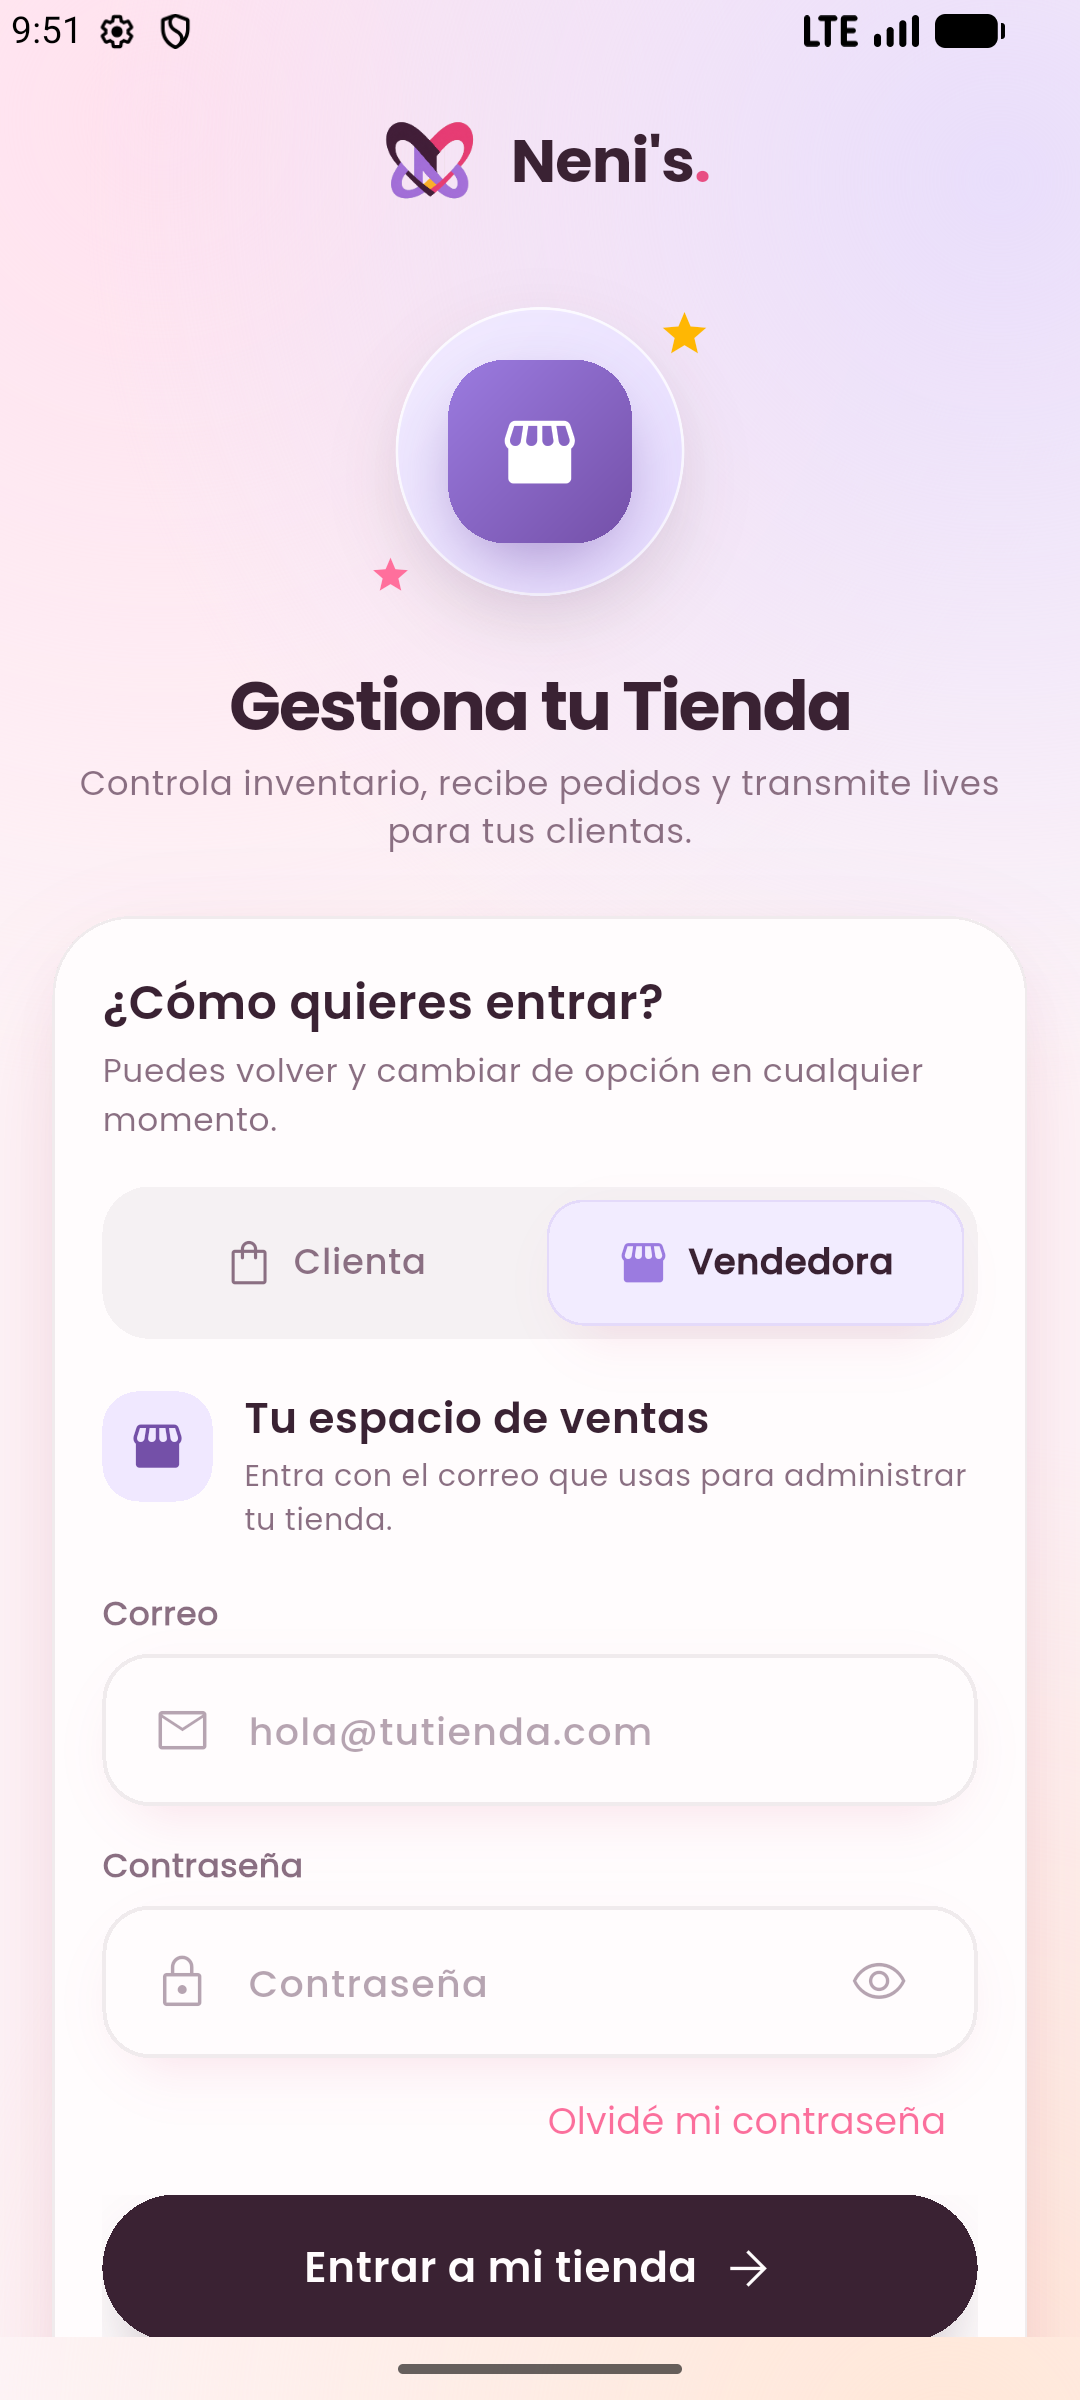
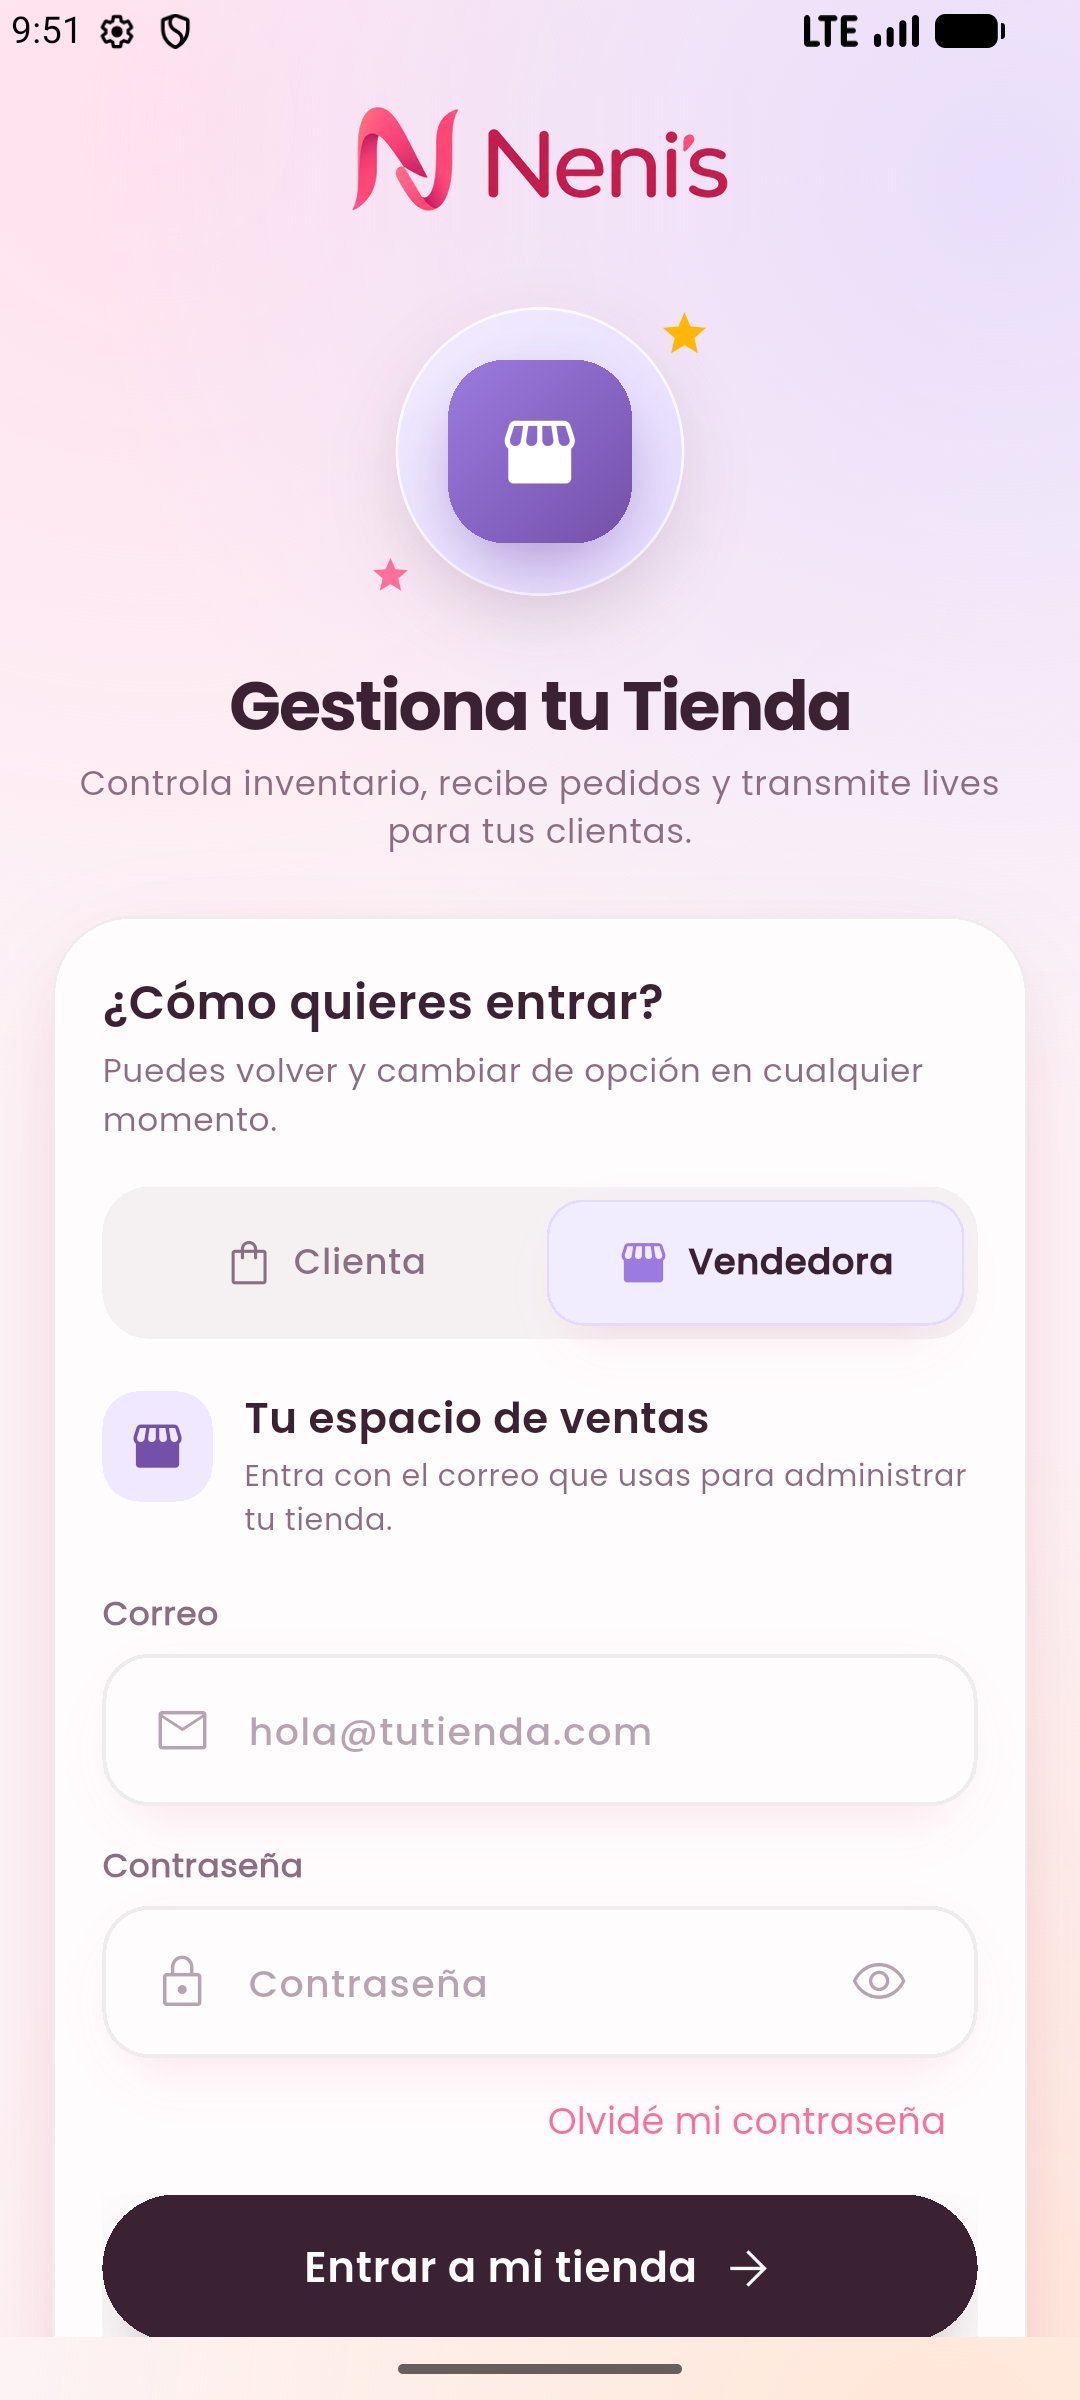
Actualizo la identidad visual y capturas de la landing

Changed region(s): [[0.3056, 0.0312, 0.6722, 0.0938]]

diff --git a/index.html b/index.html
@@ -22,7 +22,7 @@
     <meta name="twitter:image" content="https://nenisapp.com/og.png" />
     <link rel="canonical" href="https://nenisapp.com/" />
     <title>Neni's App | Tu live termina, tu negocio sigue en orden</title>
-    <link rel="icon" type="image/png" href="/images/logo.png" />
+    <link rel="icon" type="image/png" href="/favicon.png" />
     <link rel="preconnect" href="https://fonts.googleapis.com" />
     <link rel="preconnect" href="https://fonts.gstatic.com" crossorigin />
     <link
@@ -34,8 +34,7 @@
   <body class="landing-page">
     <header class="site-header" data-header>
       <a class="site-brand" href="#inicio" aria-label="Neni's App, ir al inicio">
-        <img src="/images/logo.png" alt="" />
-        <span>Neni's<span>.</span></span>
+        <img src="/images/nenis-logo.png" alt="Neni's" />
       </a>
 
       <button
@@ -464,8 +463,7 @@
     <footer class="site-footer">
       <div class="footer-main">
         <a class="site-brand footer-brand" href="#inicio">
-          <img src="/images/logo.png" alt="" />
-          <span>Neni's<span>.</span></span>
+          <img src="/images/nenis-logo.png" alt="Neni's" />
         </a>
         <p>El espacio donde vendedoras y clientas siguen conectadas.</p>
       </div>

diff --git a/src/styles/index.css b/src/styles/index.css
@@ -135,21 +135,12 @@ button {
 .site-brand {
   display: inline-flex;
   align-items: center;
-  gap: 10px;
-  color: var(--ink);
-  font-size: 1.25rem;
-  font-weight: 800;
-  letter-spacing: -0.04em;
 }
 
 .site-brand img {
-  width: 42px;
-  height: 42px;
+  width: 148px;
+  height: auto;
   object-fit: contain;
-}
-
-.site-brand > span > span {
-  color: var(--pink);
 }
 
 .main-nav {
@@ -1437,20 +1428,12 @@ button {
 .navbar__logo {
   display: inline-flex;
   align-items: center;
-  gap: 10px;
-  font-size: 1.05rem;
-  font-weight: 800;
-  letter-spacing: -0.04em;
 }
 
 .navbar__logo img {
-  width: 42px;
-  height: 42px;
+  width: 148px;
+  height: auto;
   object-fit: contain;
-}
-
-.logo-accent {
-  color: var(--pink);
 }
 
 .navbar__menu {
@@ -2030,14 +2013,10 @@ button {
     padding-block: 7px;
   }
 
-  .site-brand {
-    font-size: 1.05rem;
-  }
-
   .site-brand img,
   .navbar__logo img {
-    width: 36px;
-    height: 36px;
+    width: 132px;
+    height: auto;
   }
 
   .menu-toggle {

diff --git a/terms.html b/terms.html
@@ -5,15 +5,14 @@
   <meta name="viewport" content="width=device-width, initial-scale=1.0" />
   <title>Condiciones del Servicio — Neni's App</title>
   <meta name="description" content="Condiciones del Servicio de Neni's App. Conoce los términos bajo los cuales puedes usar nuestra aplicación y servicios." />
-  <link rel="icon" type="image/png" href="/images/logo.png" />
+  <link rel="icon" type="image/png" href="/favicon.png" />
   <link rel="stylesheet" href="/src/styles/index.css" />
 </head>
 <body>
   <nav class="navbar scrolled" id="navbar">
     <div class="container">
       <a href="/" class="navbar__logo">
-        <img src="/images/logo.png" alt="Neni's App Logo" />
-        <span>Neni<span class="logo-accent">'s</span> App</span>
+        <img src="/images/nenis-logo.png" alt="Neni's" />
       </a>
 
       <ul class="navbar__menu" id="navMenu">

diff --git a/deletion.html b/deletion.html
@@ -5,15 +5,14 @@
   <meta name="viewport" content="width=device-width, initial-scale=1.0" />
   <title>Eliminación de Datos — Neni's App</title>
   <meta name="description" content="Instrucciones para solicitar la eliminación de tus datos personales e información de cuenta en Neni's App." />
-  <link rel="icon" type="image/png" href="/images/logo.png" />
+  <link rel="icon" type="image/png" href="/favicon.png" />
   <link rel="stylesheet" href="/src/styles/index.css" />
 </head>
 <body>
   <nav class="navbar scrolled" id="navbar">
     <div class="container">
       <a href="/" class="navbar__logo">
-        <img src="/images/logo.png" alt="Neni's App Logo" />
-        <span>Neni<span class="logo-accent">'s</span> App</span>
+        <img src="/images/nenis-logo.png" alt="Neni's" />
       </a>
 
       <ul class="navbar__menu" id="navMenu">

diff --git a/privacy.html b/privacy.html
@@ -5,15 +5,14 @@
   <meta name="viewport" content="width=device-width, initial-scale=1.0" />
   <title>Aviso de Privacidad — Neni's App</title>
   <meta name="description" content="Aviso de Privacidad de Neni's App. Conoce cómo protegemos y tratamos tu información personal." />
-  <link rel="icon" type="image/png" href="/images/logo.png" />
+  <link rel="icon" type="image/png" href="/favicon.png" />
   <link rel="stylesheet" href="/src/styles/index.css" />
 </head>
 <body>
   <nav class="navbar scrolled" id="navbar">
     <div class="container">
       <a href="/" class="navbar__logo">
-        <img src="/images/logo.png" alt="Neni's App Logo" />
-        <span>Neni<span class="logo-accent">'s</span> App</span>
+        <img src="/images/nenis-logo.png" alt="Neni's" />
       </a>
 
       <ul class="navbar__menu" id="navMenu">
